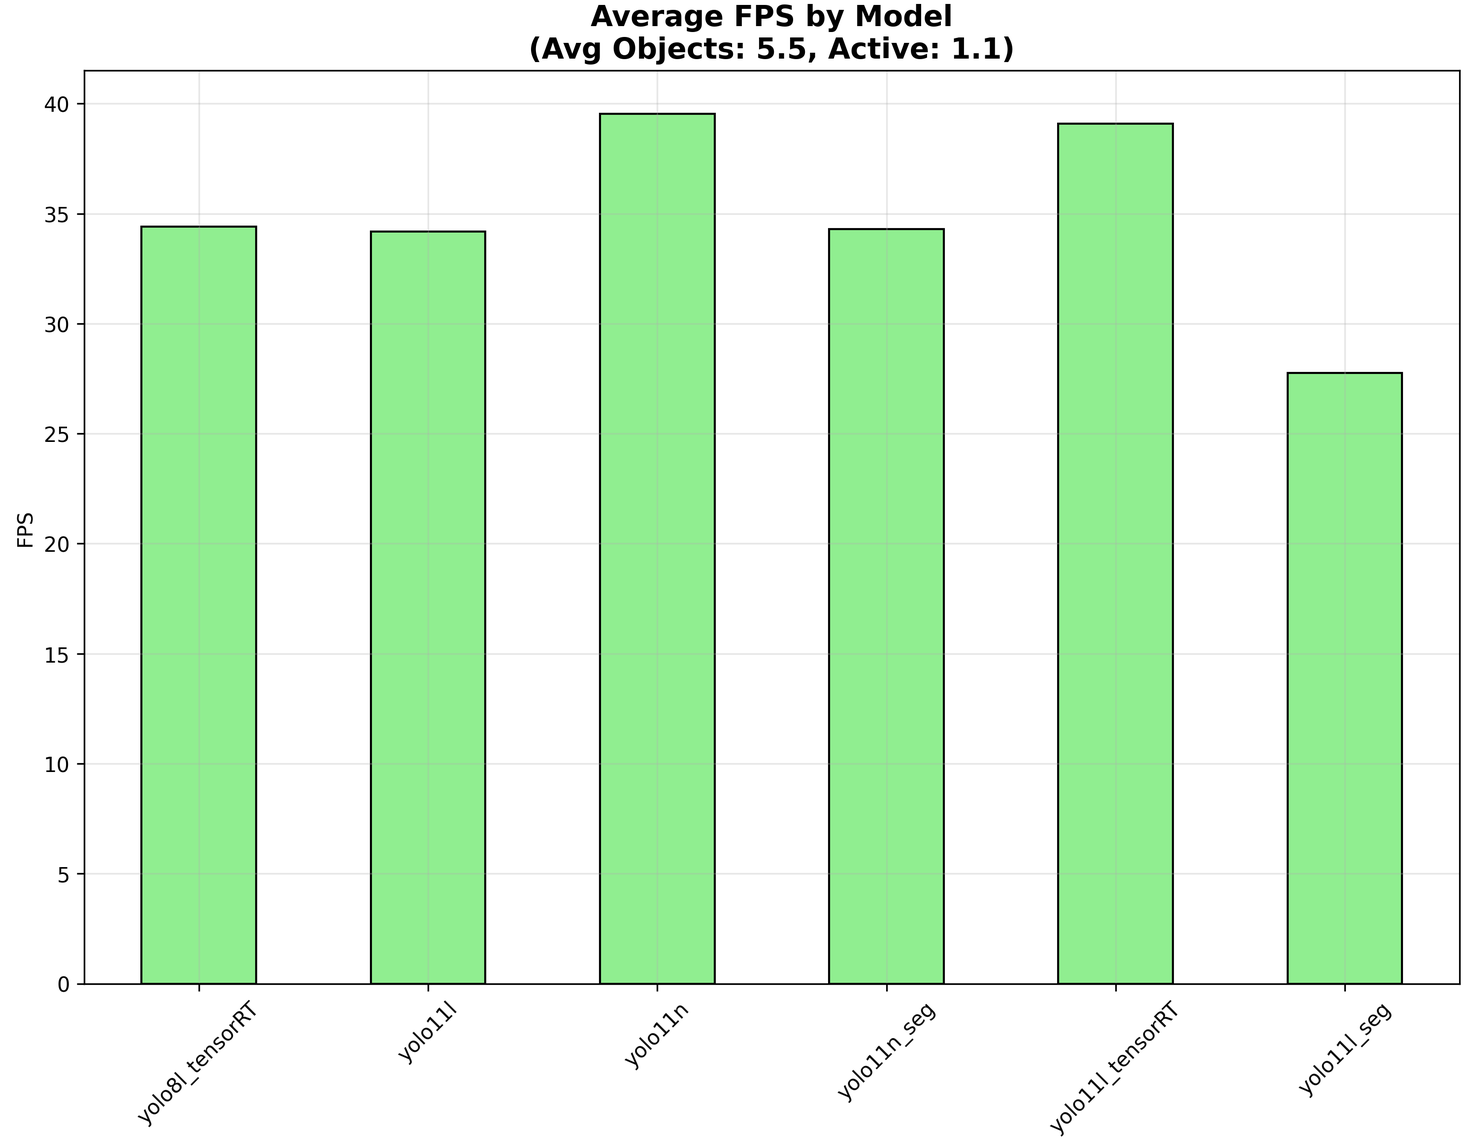
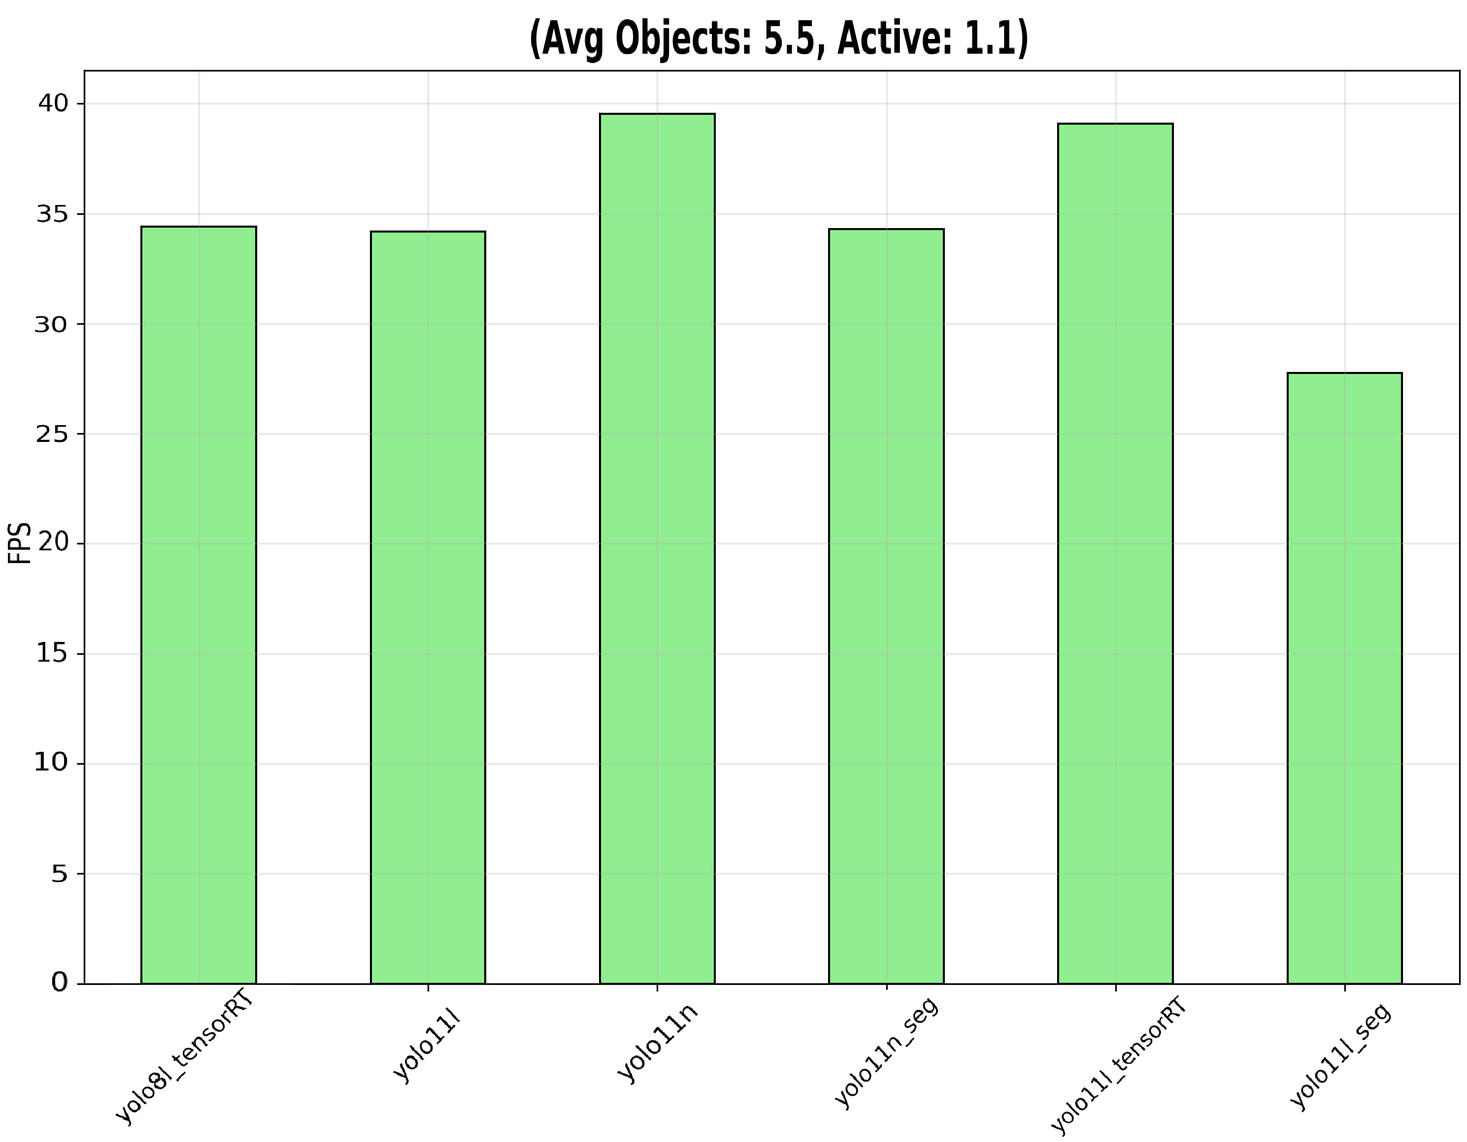
add improved yolo img, some fixes and survey eval

diff --git a/bare_jrnl_new_sample4.tex b/bare_jrnl_new_sample4.tex
@@ -171,7 +171,7 @@ Scene graphs have been deployed for different societal applications \cite{amiri2
 %\item {Cobots \& Service Robots \& Society 5.0/6.0}
 %\end{itemize}
 
-A scene graph (SG) serves to represent a scene with objects,
+An SG serves to represent a scene with objects,
 their attributes, and relationships between other objects in a structured way.
 SGG can be based on images, text, and videos.
 Such a hierarchical graph data structure consists of nodes (O) and edges (E). Nodes (O) are objects such as persons, animals, places or things (bicycle, car, etc.), but also parts of other objects (e.g., limbs such as a person's arms). Each object node is usually equipped with attributes that describe the state of the object (e.g., colors, size, or pose). The edges (E) represent the relationships between the object pairs. These connections between objects describe actions (man holds cup) or positions (man stands in front of a bench). Typically, such a relationship is expressed as a
@@ -210,7 +210,7 @@ An SG can be defined as a tuple:
 	
 \noindent For SGG, diverse models and technologies are employed across robotics, computer vision, autonomous navigation, and human-machine interaction. These are summarized in Table \ref{tab:scenegraph_technologies}. 
 Due to the steadily increasing availability and improvements of Foundation Models, there has been a significant shift from class limited object recognition to universal segmentation models (e.g.,  SAM/SAM 2) and open-vocabulary encoders (e.g., CLIP) that provide pixel-accurate masks and semantic embeddings, respectively. This allows modern Vision Language Models (VLMs) to recognize not only object classes but also their semantic states and complex relationships. Frameworks like ConceptGraphs and 3DGraphLLM use this information to construct scene graphs that are interpretable for LLMs and ground these objects in 3D space by integrating geometric metadata from sensors such as LiDAR or depth cameras. Approaches such as VLMaps and Graph2Nav focus on directly translating these spatial relations into executable navigation commands. 
-Some of the frameworks presented require prior mapping or 3D reconstruction \cite{3dgraphllm}, \cite{hovsg}, \cite{openin}, \cite{interaction}, while others are designed for use in unknown environments and create a map in real time to navigate \cite{conceptgraphs}, \cite{graph2nav},\cite{sgnav},\cite{lgx}, \cite{vlmaps}. However, these require powerful hardware and various sensors.    
+Some of the frameworks presented require prior mapping or 3D reconstruction \cite{3dgraphllm}, \cite{hovsg}, \cite{openin}, \cite{interaction}, while others are designed for use in unknown environments and create a map in real time to navigate \cite{conceptgraphs}, \cite{graph2nav},\cite{sgnav},\cite{lgx}, \cite{vlmaps}. However, these require powerful hardware, various sensors and further processing by various systems. In most cases, an entire room or floor must first be scanned/mapped using LiDAR and/or depth cameras. This map is then further processed and enriched with descriptions of these objects, for example with the help of MLLMs. This enables, for example, visual questions and answers about specific objects.     
 [...]
 
 
@@ -402,17 +402,25 @@ The result of the scene interpretation is displayed as text in the output window
 This section presents hardware test results and benchmarks from experiments with YOLO models within pAIrSEEption and various inference times with MLLMs such as Gemma 3 and Qwen 2.5 VL until a scene description is generated. The second experiment shows results from a usability evaluation of the framework with a focus on human robot interaction and object following.
 
 \subsection{Performance Analysis of YOLO Models}
-Fig. \ref{fig:yolo_fps} and Fig. \ref{fig:yolo_gpu} show the average FPS and GPU usage of a variety of popular YOLO models of different sizes that are integrated into pAIrSEEption, respectively. The FPS value is an important measure for evaluating the perception module in the overall system and affects the response time, safety, precision of navigation, and tracking. The framework offers easy integration into the system by storing a PT, ONNX, or engine YOLO model in the same folder as the pAIrSEEption application. These models also include engine models that have been optimized with TensorRT (to 16-Bit Floating Point) on a consumer laptop (Nvidia RTX A2000 graphics card with 8 GB VRAM, 32 GB RAM and i7-13800H processor) to demonstrate accessibility.
+Fig. \ref{fig:yolo_comparison} shows the average FPS and GPU usage of a variety of popular YOLO models of different sizes that are integrated into pAIrSEEption, respectively. The FPS value is an important measure for evaluating the perception module in the overall system and affects the response time, safety, precision of navigation, and tracking. The framework offers easy integration into the system by storing a pytorch (\textit{.pt}), \textit{.onnx}, or \textit{.engine} (TensoRT) YOLO model in the same folder as the pAIrSEEption application. These models also include engine models that have been optimized with TensorRT (to 16-Bit Floating Point for testing purposes) on a consumer laptop (Nvidia RTX A2000 graphics card with 8 GB VRAM, 32 GB RAM and i7-13800H processor) to demonstrate accessibility.
 A confidence threshold of 40\% was selected on the GUI. Data collection took place in a laboratory setting. The hardware performance data of the different YOLO models was recorded on the GUI over a set number of frames of around 700 to 1750 frames with varying activity within the scene (static and moving objects, while moving objects are counted as active). 
-The data recording is part of the GUI, and the diagrams were created from this data. The results show that The yolo11n model achieves the best value in the average FPS evaluation with just under 40 FPS, which was to be expected as this model is the smallest in this test series.
-The large yolo11l\_tensorRT is at a similar level and shows that optimization with TensorRT achieves a significant improvement of approximately 5 FPS on average compared to the standard yolo11l PT model. When comparing the two optimized TensorRT models in the overall system, the YOLO 11 version is ahead of version 8 by around 5 FPS on average and with a  negligibly higher GPU consumption of 2\% to 3\%.
+The data recording is part of the GUI, and the diagrams were created from this data. The results show that the yolo11n (nano) model achieves the best value in the average FPS evaluation with just under 40 FPS, which was to be expected as this model is the smallest in this test series.
+The large yolo11l\_tensorRT is at a similar level and shows that optimization with TensorRT achieves a significant improvement of approximately 5 FPS on average compared to the standard yolo11l.pt model. When comparing the two optimized TensorRT models in the overall system, the YOLO 11 version is ahead of version 8 by around 5 FPS on average and with a  negligibly higher GPU consumption of 2\% to 3\%. As expected, segmentation models (with  suffix \textit{seg} in the diagram) typically achieve lower FPS compared to their object detection counterpart models. In future work, this could be used for avoidance of objects, where this pixel mask is used to avoid objects more precisely.
 
-\begin{figure}[!ht]
+\begin{figure*}[!ht]
 	\centering
-	\includegraphics[width=\columnwidth] {images/yolo_performance_fps.png}
-	\caption{FPS analysis of YOLO models on the laptop.}
-	\label{fig:yolo_fps}
+	\includegraphics[width=\textwidth]{images/yolo_comparison.png}
+	\caption{FPS and GPU usage analysis of YOLO models on the laptop with an average of 5.5 static and 1.1 active objects (objects in motion) captured over 1750 frames.}
+	\label{fig:yolo_comparison}
+\end{figure*}
+
+\begin{figure}[!htpb]
+	\centering
+	\includegraphics[width=8.7cm]{images/timing_breakdown.png}
+	\caption{Timing breakdown of Gemma 3 and Qwen 2.5 VL models based on size. The suffix "Husky" indicates that the model has been modified using modelfile parameters and adapted to our application. Abbreviations: "G3" = Gemma 3, "it qat" = instruction-tuned and Quantization-Aware Training, "Q4" = 4-Bit quantization.}
+	\label{timing_breakdown}
 \end{figure}
+
 
 %\begin{figure}[!ht]
 %	\centering
@@ -420,39 +428,39 @@ The large yolo11l\_tensorRT is at a similar level and shows that optimization wi
 %	\caption{ FPS Analysis of YOLO Models on the laptop.}
 %	\label{fig:yolo_fps}
 %\end{figure}
-\begin{figure}[!ht]
-	\centering
-	\includegraphics[width=\columnwidth] {images/yolo_performance_gpu.png}
-	\caption{GPU usage analysis of YOLO Models on the laptop.}
-	\label{fig:yolo_gpu}
-\end{figure}
+%\begin{figure}[!ht]
+%	\centering
+%	\includegraphics[width=\columnwidth] {images/yolo_performance_gpu_big.png}
+%	\caption{GPU usage analysis of YOLO Models on the laptop.}
+%	\label{fig:yolo_gpu}
+%\end{figure}
 
+\begin{figure}[!htbp]
+	\centering
+	\includegraphics[width=\columnwidth] {images/lab.jpg}
+	\caption{Qualitative assessment of Gemma 3 12B scene description capability. The model integrates real-time object detection data to generate a natural language representation of the robot's environment for assistive navigation. The scene description generated by a Gemma 3 12B model with spatial object data, reads as follows: \textit{"You are in a room, presumably an
+			office. Directly in front of you,
+			about 1.8 meters away and slightly to
+			the left, is a screen. To your right,
+			about 2.5 meters away, is a chair. To
+			your left, about 3.7 meters away, is
+			another chair. A little further ahead,
+			about 4 meters away and to your left,
+			is another screen. To your right,
+			about 5 meters away, is another chair.
+			Be aware of the chairs and screens as
+			potential obstacles. The floor appears
+			to be level."} This response was originally generated in German.}
+	\label{mllm_scene_lab}
+\end{figure}
 
 \subsection{Performance of MLLMs and Showcase of Scene Understanding}
 \label{subsec:sceneunderstanding}
 Fig. \ref{timing_breakdown} shows the duration of various Gemma 3 and Qwen 2.5 VL models to generate and describe a current scene with object data. Ollama is used to determine this  metric and record it in measurement logs. These logs consist of several parts. They contain metadata such as timestamps, an ID (for unique assignment of images and audio files to an analysis log), and the model used for scene interpretation. In addition, the number of input and output tokens is determined. In this test, the same scene was always tested with different models. 
-The duration from when the user initiates a request for the scene description to the output of the response is broken down into three parts: the model load time, the input processing (both on the server as shown in Fig. \ref{client_server}) and the output generation sent from the server to the consumer laptop where pAIrSEEption runs. 
+The duration from when the user initiates a request for the scene description to the output of the response is broken down into three parts: the model load time, the input processing (both on the server as shown in Fig. \ref{client_server}) and the output generation sent from the server to the consumer laptop where pAIrSEEption runs. [...]
 
-[...]
 
-\begin{figure}[!ht]
-	\centering
-	\includegraphics[width=\columnwidth] {images/lab.jpg}
-	\caption{[Change if img with bbox is available] Qualitative assessment of Gemma 3 12B scene description capability. The model integrates real-time object detection data to generate a natural language representation of the robot's environment for assistive navigation. The scene description generated by a Gemma 3 12B model with spatial object data, reads as follows: \textit{"You are in a room, presumably an
-		office. Directly in front of you,
-		about 1.8 meters away and slightly to
-		the left, is a screen. To your right,
-		about 2.5 meters away, is a chair. To
-		your left, about 3.7 meters away, is
-		another chair. A little further ahead,
-		about 4 meters away and to your left,
-		is another screen. To your right,
-		about 5 meters away, is another chair.
-		Be aware of the chairs and screens as
-		potential obstacles. The floor appears
-		to be level."} This response was originally generated in German.}
-	\label{mllm_scene_lab}
-\end{figure}
+
 
 %\begin{center} 
 %	\fcolorbox{black}{black!5}{%
@@ -471,12 +479,7 @@ The duration from when the user initiates a request for the scene description to
 %*The response from the Gemma 3 12 B model was originally generated in German.
 [...]
 
-\begin{figure}[!htpb]
-	\centering
-	\includegraphics[width=8.7cm]{images/timing_breakdown.png}
-	\caption{Timing breakdown of Gemma 3 and Qwen 2.5 VL models based on size. The suffix "Husky" indicates that the model has been modified using modelfiles and adapted to our application. Abbreviations: "G3" = Gemma 3, "it qat" = instruction-tuned and Quantization-Aware Training, "Q4" = 4-Bit quantization.}
-	\label{timing_breakdown}
-\end{figure}
+
 
 \subsection{Usability Study}
 %\begin{table*}[!ht]
@@ -562,14 +565,29 @@ To evaluate the usability of mainly the voice control and object tracking (follo
 	\end{enumerate}
 \end{itemize}
 
-The questions were rated by participants (P1 to P10) on a scale of 1 to 5, with 1 being the lowest/worst rating and 5 being the highest/best rating. For questions Q3 and Q6, negative items were reverse-coded for statistical analysis. For every question (Q1 to Q9) a mean $\bar{x}$ and a sample standard deviation $s$ was computed to make a quantitative statement. Since participant P5 skipped question Q3, n = 9 was used to calculate mean and standard derivation for this particular question.
+The questions were rated by participants (P1 to P9) on a scale of 1 to 5, with 1 being the lowest/worst rating and 5 being the highest/best rating. For questions Q3 and Q6, negative items were reverse-coded for statistical analysis. For every question (Q1 to Q9) a mean $\bar{x}$ and a sample standard deviation $s$ was computed to make a quantitative statement. Since participant P5 skipped question Q3, n = 8 was used to calculate mean and standard derivation for this particular question.
 
 \subsubsection{Results and Discussion}
 
-\begin{table}[htpb]
+
+The quantitative results in Table \ref{tab:user_study_results} indicate a high level of user satisfaction across all categories. Particular emphasis was placed on the ease of use of voice commands, the perceived safety during robot operation (mean: $\bar{x}_{Q1, Q8} = 4.67$ and standard derivation (SD): $s_{Q1, Q8} = 0.50$ respectively), the subsequent correct object identification by the system was rated the highest with an average rating of $\bar{x}_{Q4} = 4.78$ and the lowest SD with $s_{Q4} = 0.44$. 
+Furthermore, very high ratings for the recognition reliability, the system response time and the overall ease of use ($\bar{x}_{Q2, Q5, Q7} = 4.56$) indicate that the tracking behavior was perceived as predictable and non-threatening. 
+The participants are also willing to use such a system in real-world applications ($\bar{x}_{Q9}$ = 4.22). While the low ratings for necessity of (voice) repetitions ($\bar{x}_{Q3)} = 1.75$) and the frequency of losing the tracked target ($\bar{x}_{Q6)} = 1.56$) show that the implementation of voice control and object detection works very well.  
+The low SD $s$ across most items indicates a high consensus among participants.
+It should be noted, however, that the participants all come from the field of engineering, so that a high level of technical affinity and an intrinsic interest in robotics must be assumed. Therefore, the acceptance to use the system in real-world applications as well as the perceived ease of use might be lower for lay users. The study is also limited by the small sample size ($N=9$), which serves as a pilot evaluation.  
+For further investigations, visually impaired individuals should be consulted, for example, to evaluate the system's scene description (Fig. \ref{mllm_scene_lab}) and determine in what ways it can be helpful for independent navigation. In addition, while the current object tracking performance was rated highly, future work should investigate more cluttered/unstructured environments where the probability of losing the target (Q6) might increase.
+Given their technical background, participants provided sophisticated qualitative feedback (Q10 to Q12) that highlights both operational performance and technical scalability. They positively emphasized the precision and fast response time of the system. They also praised the easy-to-understand and clear interface and the constant distance maintenance.
+Potential for improvement was seen primarily in the robot driving around corners (slow turns) and a broader language support. While the current architecture leverages faster-whisper for automatic language recognition for the voice command inputs, the STT output currently is limited to German. However, the MLLMs used in the system natively support multilingual interaction and it remains a high priority task for future iterations to further foster inclusion. 
+Beyond the interaction, interoperability with web-based and industry standards, in particular the Internet of Things and Industrial Internet of Things ecosystems, was also proposed.
+Further suggestions were also made for optimizing re-identification (Re-ID) of the object, improving obstacle detection, and providing more detailed instructions for voice commands.
+Additional functions suggested included a reverse gear, a voice command for a 180° turn, and the integration of an additional robot arm as well as inter-robot communication. 
+Furthermore, participants suggested implementing fallback mechanisms to handle (voice) signal loss and exploring additional communication modalities to ensure reliable operation.
+Overall, the results suggest that our system can effectively lower the entry barrier for robot interaction and shows great potential for service robotics in domestic and industrial settings.
+
+\begin{table}[!t]
 	\centering
-	\caption{Quantitative Results of the Usability Evaluation ($N=10$) featuring Mean Score $\bar{x}$ and Sample Standard Deviation $s$. Scoring: 5 = highest/best, 1 = lowest/worst.
-	*Negative questions: lower values indicate better performance.}
+	\caption{Quantitative Results of the Usability Evaluation ($N=9$) featuring Mean Score $\bar{x}$ and Sample Standard Deviation $s$. Scoring: 5 = highest/best, 1 = lowest/worst.
+		*Negative questions: lower values indicate better performance.}
 	\label{tab:user_study_results}
 	\setlength{\tabcolsep}{3.5pt} 
 	\begin{tabular}{|l|c|c|c|c|c|c|c|c|c|}
@@ -583,34 +601,19 @@ The questions were rated by participants (P1 to P10) on a scale of 1 to 5, with 
 		P6 & 5 & 5 & 1 & 5 & 5 & 1 & 4 & 4 & 5 \\ \hline
 		P7 & 5 & 4 & 2 & 5 & 4 & 3 & 4 & 4 & 3 \\ \hline
 		P8 & 4 & 5 & 1 & 5 & 4 & 1 & 5 & 5 & 2 \\ \hline
-		P9 & 5 & 4 & 2 & 5 & 4 & 2 & 5 & 4 & 5 \\ \hline
-		P10 & $-$ & $-$ & $-$ & $-$ & $-$ & $-$ & $-$ & $-$ & $-$ \\ \hline \hline
-		\textbf{Mean} $\bar{x}$ & \textbf{} & \textbf{} & \textbf{} & \textbf{} & \textbf{} & \textbf{} & \textbf{} & \textbf{} & \textbf{} \\ \hline
-		\textbf{SD} $s$ & \textbf{} & \textbf{} & \textbf{} & \textbf{} & \textbf{} & \textbf{} & \textbf{} & \textbf{} & \textbf{} \\ \hline
+		P9 & 5 & 4 & 2 & 5 & 4 & 2 & 5 & 4 & 5 \\ \hline \hline
+		\textbf{Mean} $\bar{x}$ & \textbf{4.67} & \textbf{4.56} & \textbf{1.75} & \textbf{4.78} & \textbf{4.56} & \textbf{1.56} & \textbf{4.56} & \textbf{4.67} & \textbf{4.22} \\ \hline
+		\textbf{SD} $s$ & \textbf{0.50} & \textbf{0.53} & \textbf{0.89} & \textbf{0.44} & \textbf{0.53} & \textbf{0.73} & \textbf{0.53} & \textbf{0.50} & \textbf{1.09} \\ \hline
 	\end{tabular}
 	\vspace{1ex}
 \end{table}
-
-
-The quantitative results in Table \ref{tab:user_study_results} indicate a high level of user satisfaction across all categories. Particular emphasis was placed on the ease of use of voice commands, the subsequent correct object identification by the system, the system response time, and the perceived safety during robot operation (Q1, Q4, Q5 and Q8: $\bar{x}$ = X/5 and in each case $s$ = X, . Furthermore, the reliability of object recognition was rated as very good ($\bar{x}_{Q2}$ = X and $\bar{x}_{Q3}$ = X) and the overall operation of robot and GUI ($\bar{x}_{Q7}$ = X) was also rated very highly. The participants are also willing to use such a system in real-world applications ($\bar{x}_{Q9}$ = X). 
-While $\bar{x}_{Q6}$ = X further confirms that the tracking behavior was perceived as predictable and non-threatening. 
-The low standard deviation $s$ across most items indicates a high consensus among participants.
-It should be noted, however, that the participants all come from the field of engineering, so that a high level of technical affinity and an intrinsic interest in robotics must be assumed. Therefore, the acceptance to use the system in real-world applications as well as the perceived ease of use might be lower for lay users. The study is also limited by the small sample size ($N=10$), which serves as a pilot evaluation.  
-For further investigations, visually impaired individuals should be consulted, for example, to evaluate the system's scene description (Fig. \ref{mllm_scene_lab}) and determine in what ways it can be helpful for independent navigation. In addition, while the current object tracking performance was rated highly, future work should investigate more cluttered/unstructured environments where the probability of losing the target (Q6) might increase.
-Given their technical background, participants provided sophisticated qualitative feedback (Q10 to Q12) that highlights both operational performance and technical scalability. They positively emphasized the precision and fast response time of the system. They also praised the easy-to-understand and clear interface and the constant distance maintenance.
-Potential for improvement was seen primarily in the robot driving around corners (slow turns) and a broader language support. While the current architecture leverages faster-whisper for automatic language recognition for the voice command inputs, the STT output currently is limited to German. However, the MLLMs used in the system natively support multilingual interaction and it remains a high priority task for future iterations to further foster inclusion. 
-Beyond the interaction, interoperability with web-based and industry standards, in particular the Internet of Things and Industrial Internet of Things ecosystems, was also proposed.
-Further suggestions were also made for optimizing re-identification (Re-ID) of the object, improving obstacle detection, and providing more detailed instructions for voice commands.
-Additional functions suggested included a reverse gear, a voice command for a 180° turn, and the integration of an additional robot arm as well as inter-robot communication. 
-Furthermore, participants suggested implementing fallback mechanisms to handle (voice) signal loss and exploring additional communication modalities to ensure reliable operation.
-Overall, the results suggest that our system can effectively lower the entry barrier for robot interaction and shows great potential for service robotics in domestic or industrial settings.
 
 \section{Conclusion}
 The conclusion goes here.
 
 
 \section*{Acknowledgments}
-We would like to thank Mr. S. Azizpour and Mr. A. Koennecke for his support in conducting the usability study and robot control, respectively. We would also like to thank all participants for their time and feedback.
+We would like to thank Mr. S. Azizpour for his support in conducting the usability study and Mr. A. Koennecke for his support with robot control. We would also like to thank all participants for their time and feedback.
 
 
 %{\appendix[Proof of the Zonklar Equations]
